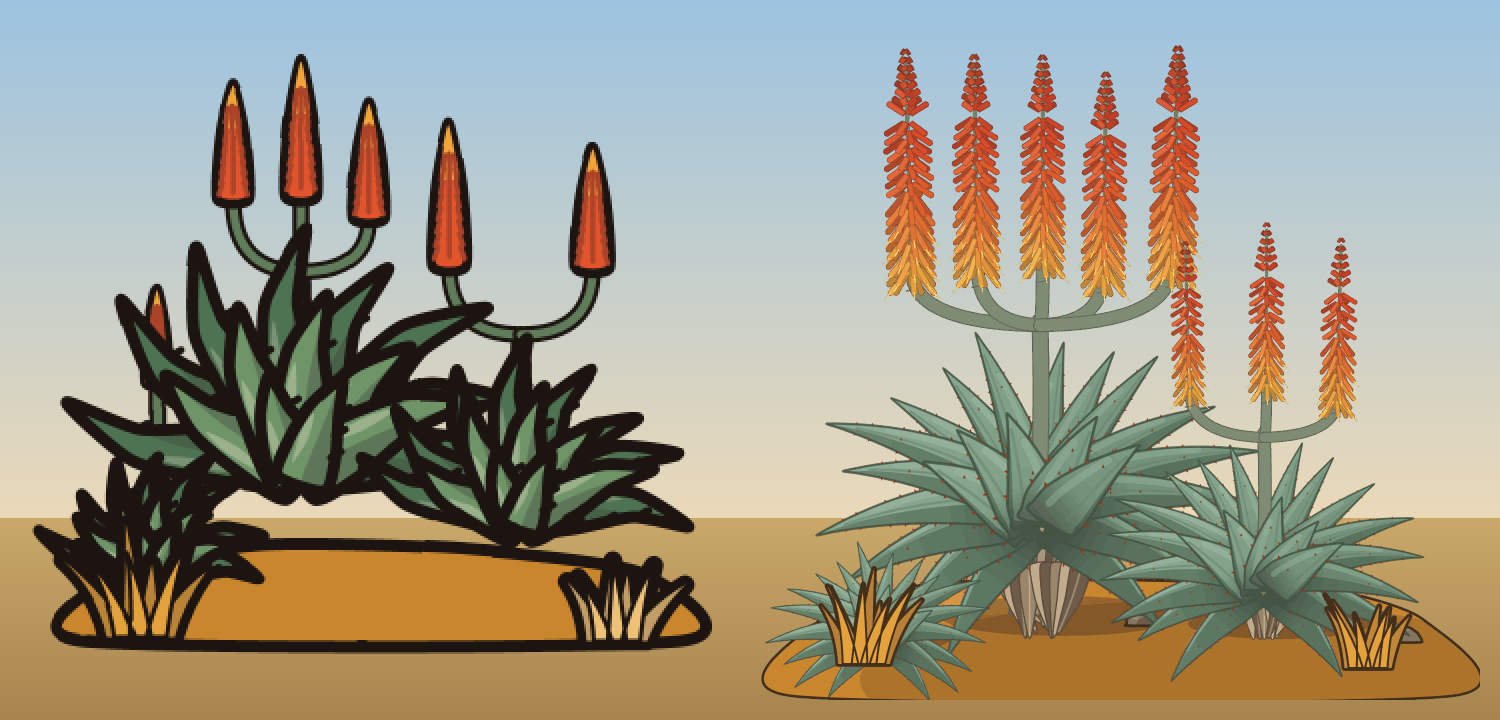
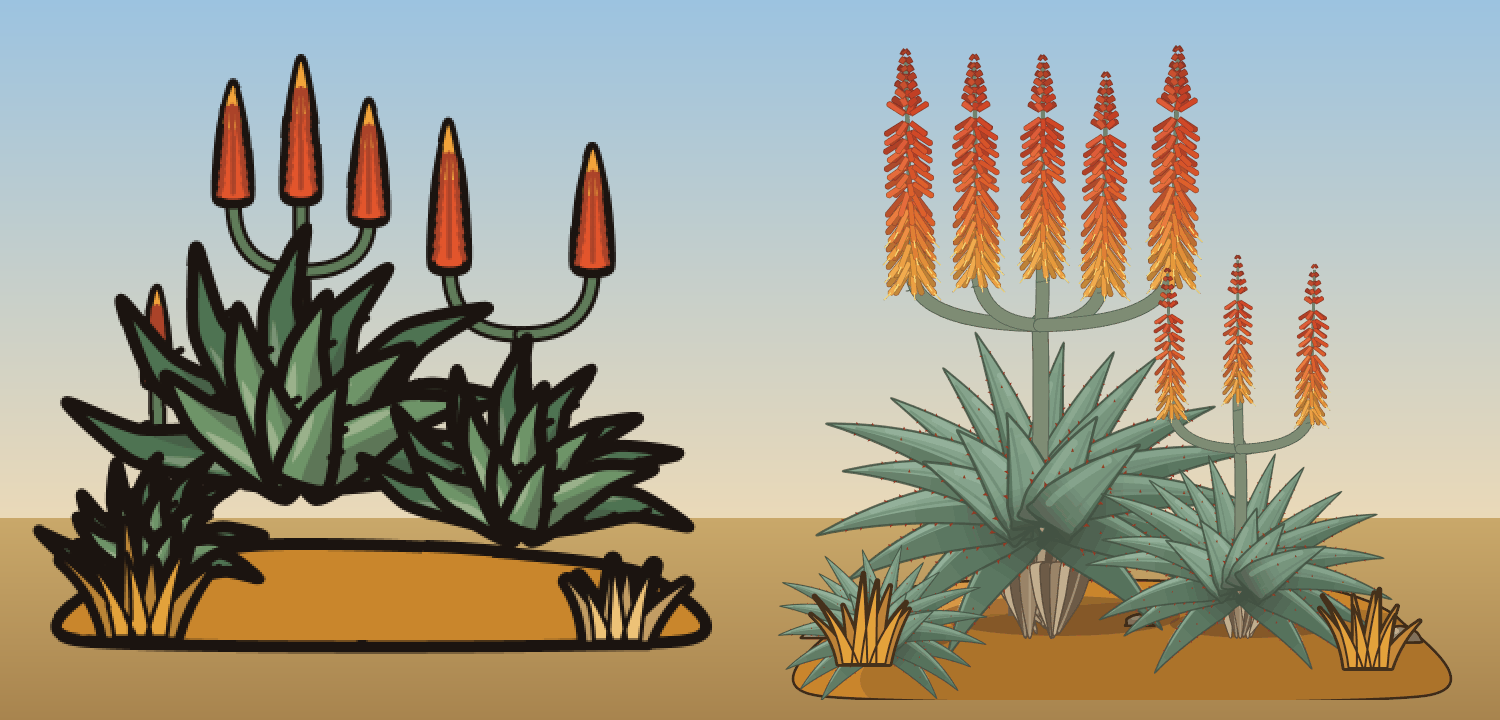
fix(art): keep the HD aloe clumps inside their textures (edge audit) (D-051)

Changed region(s): [[0.736, 0.3056, 1.0, 0.9778], [0.4907, 0.7639, 0.644, 0.9778]]

diff --git a/tools/art/biomes/bushveld.ts b/tools/art/biomes/bushveld.ts
@@ -581,9 +581,9 @@ export const BUSHVELD_PLAN: BiomeArtPlan = {
     'bushveld/aloe_a': {
       draw: aloeClump(
         [
-          plant(-36, 118, 116, 60, 5, -0.4, -226),
-          plant(80, 122, 86, 24, 4, 0.6, -226),
-          plant(-122, 130, 58, 0, 1, 0.2, -226),
+          plant(-30, 118, 112, 60, 5, -0.4, -226),
+          plant(66, 122, 80, 24, 4, 0.6, -226),
+          plant(-108, 130, 54, 0, 1, 0.2, -226),
         ],
         'grassDark',
         'grass',
@@ -597,7 +597,7 @@ export const BUSHVELD_PLAN: BiomeArtPlan = {
         [
           plant(24, 116, 122, 66, 6, 0.3, -226),
           plant(-98, 124, 84, 20, 3, -0.7, -226),
-          plant(128, 132, 58, 0, 2, -0.2, -226),
+          plant(116, 132, 56, 0, 2, -0.2, -226),
         ],
         'grassDark',
         'grass',

diff --git a/tools/art/biomes/karoo.ts b/tools/art/biomes/karoo.ts
@@ -2276,13 +2276,13 @@ export function aloeClump(
     const parts: string[] = [];
     const mound = smoothD(
       [
-        [-164, 158],
-        [-150, 120],
+        [-150, 158],
+        [-138, 120],
         [-96, 102],
         [0, 100],
         [100, 104],
-        [152, 120],
-        [166, 158],
+        [140, 120],
+        [152, 158],
       ],
       true,
       0.7,
@@ -2397,7 +2397,7 @@ export const KAROO_PLAN: BiomeArtPlan = {
     'karoo/hd/aloe_a': {
       draw: aloeClump([
         plant(-40, 116, 100, 50, 5, -0.4),
-        plant(72, 120, 76, 20, 3, 0.6),
+        plant(60, 120, 70, 20, 3, 0.6),
         plant(-120, 128, 50, 0, 0, 0.2),
       ]),
       master: 2,
